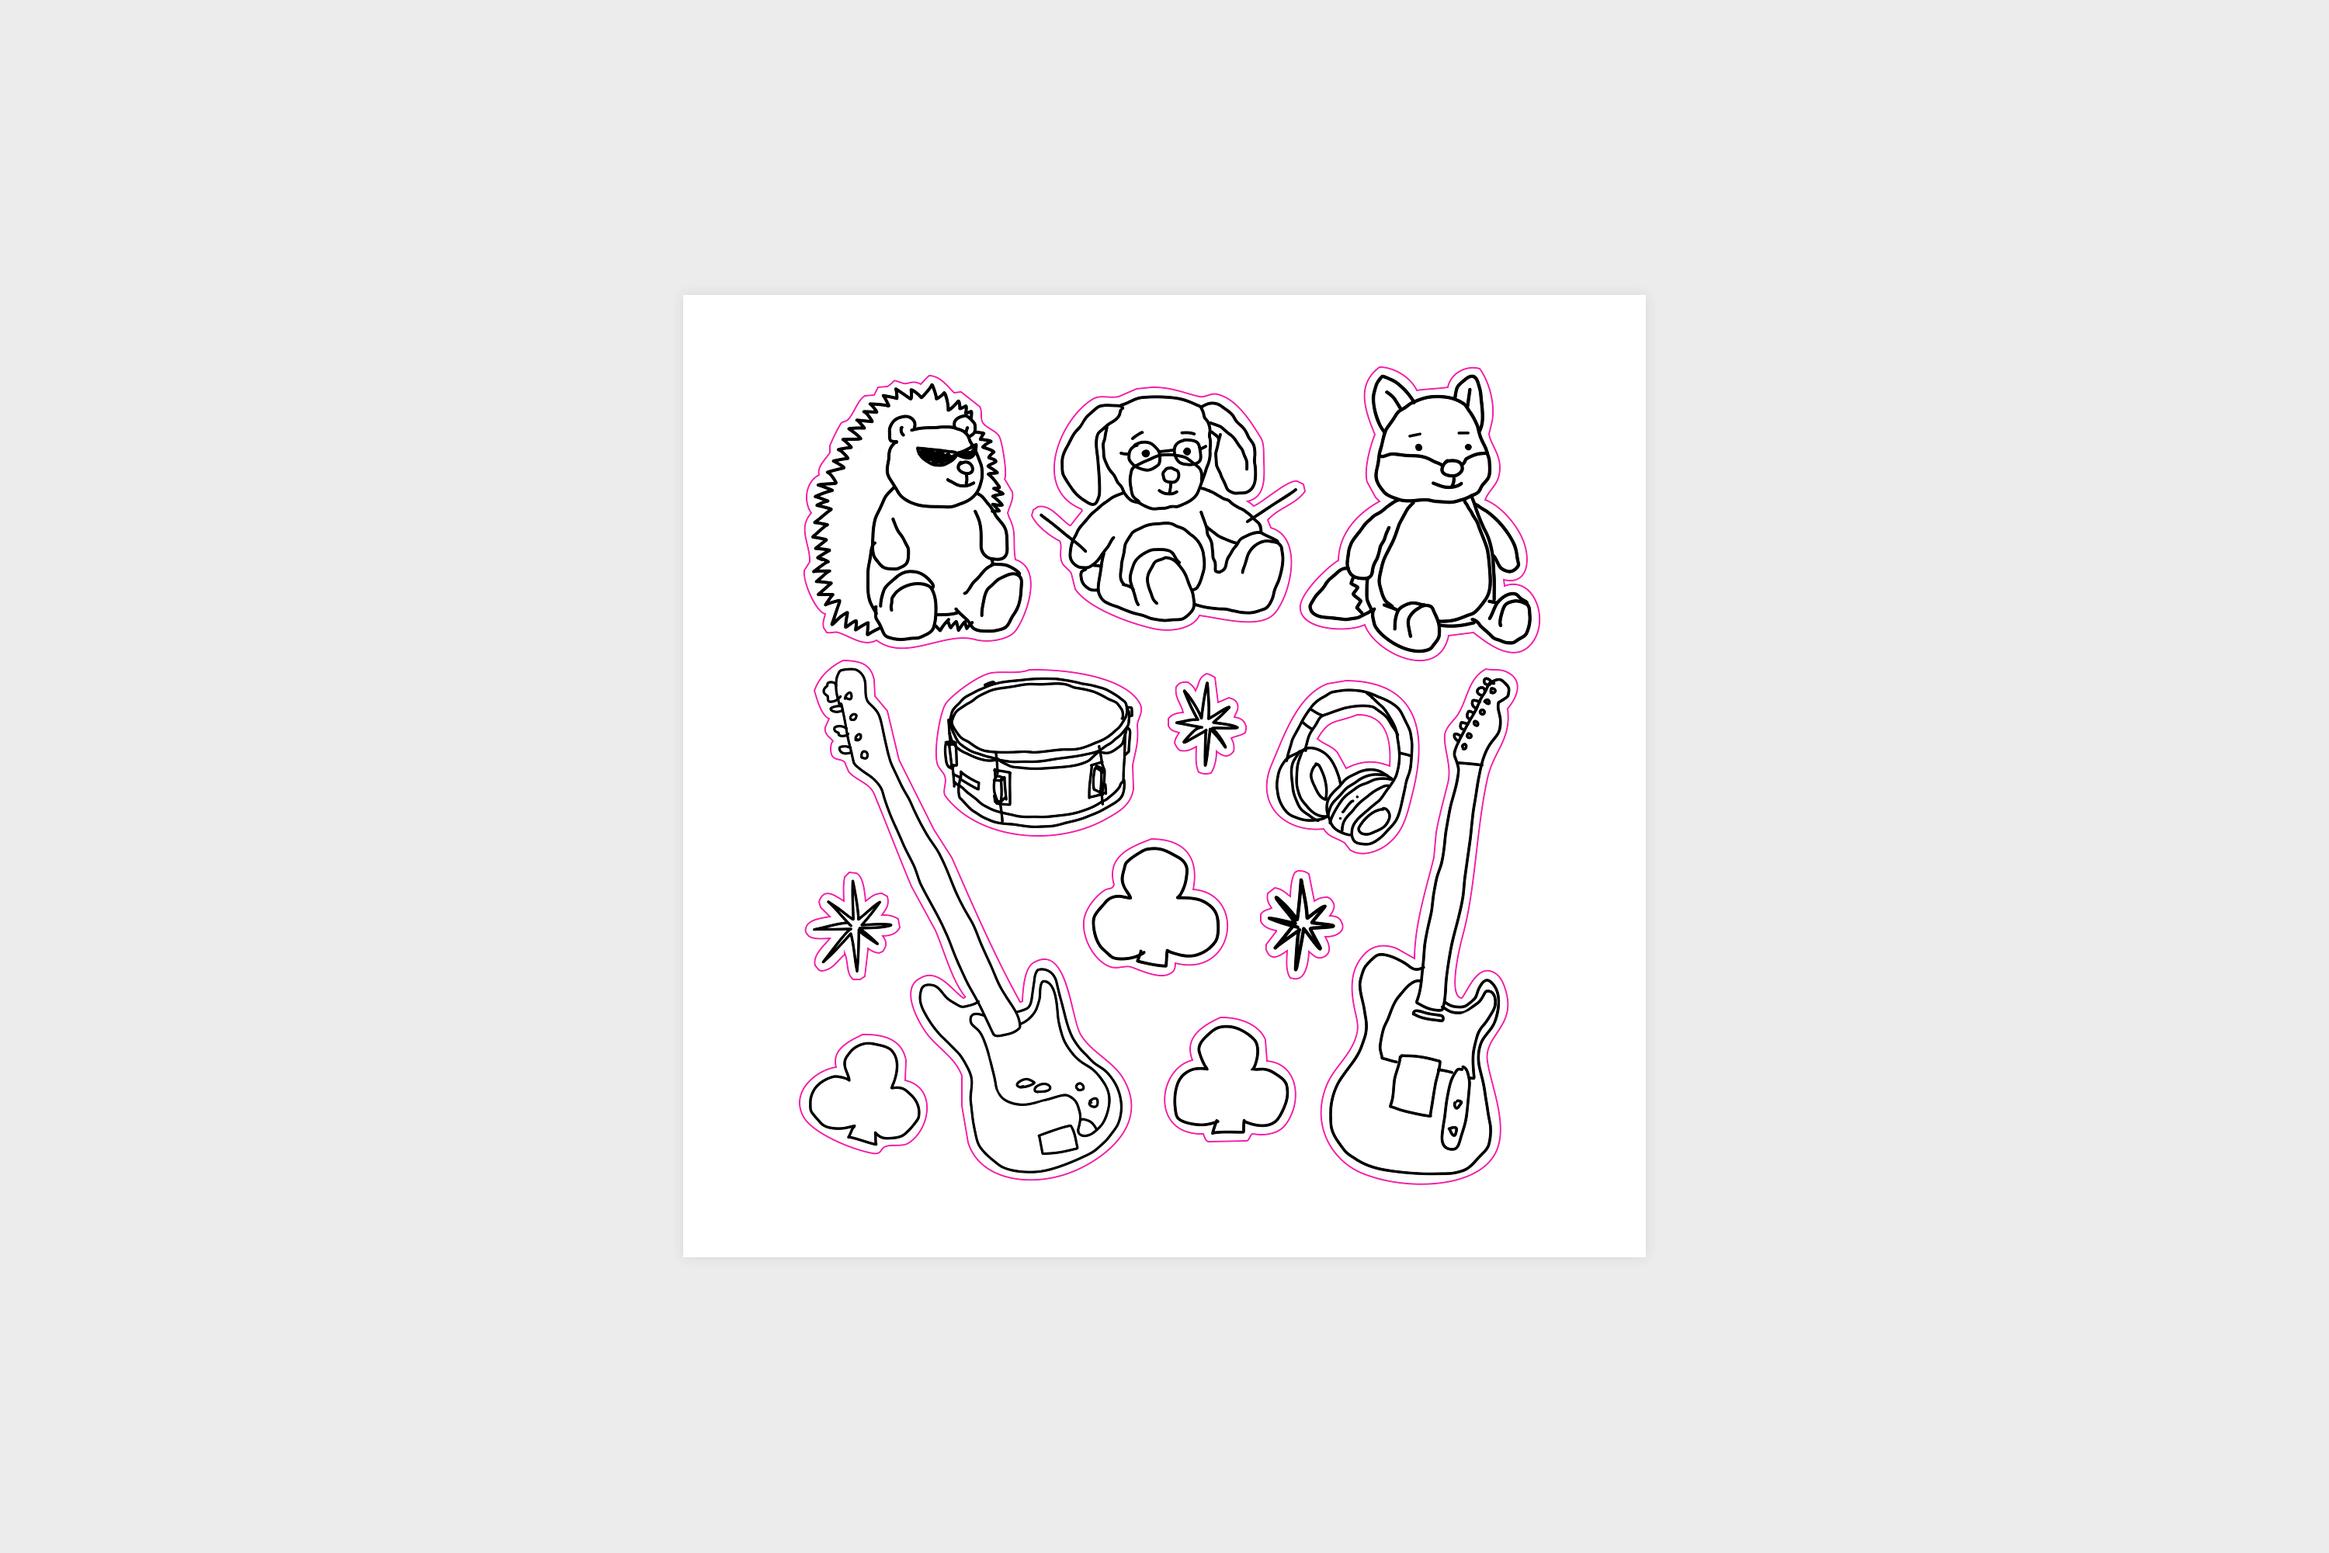
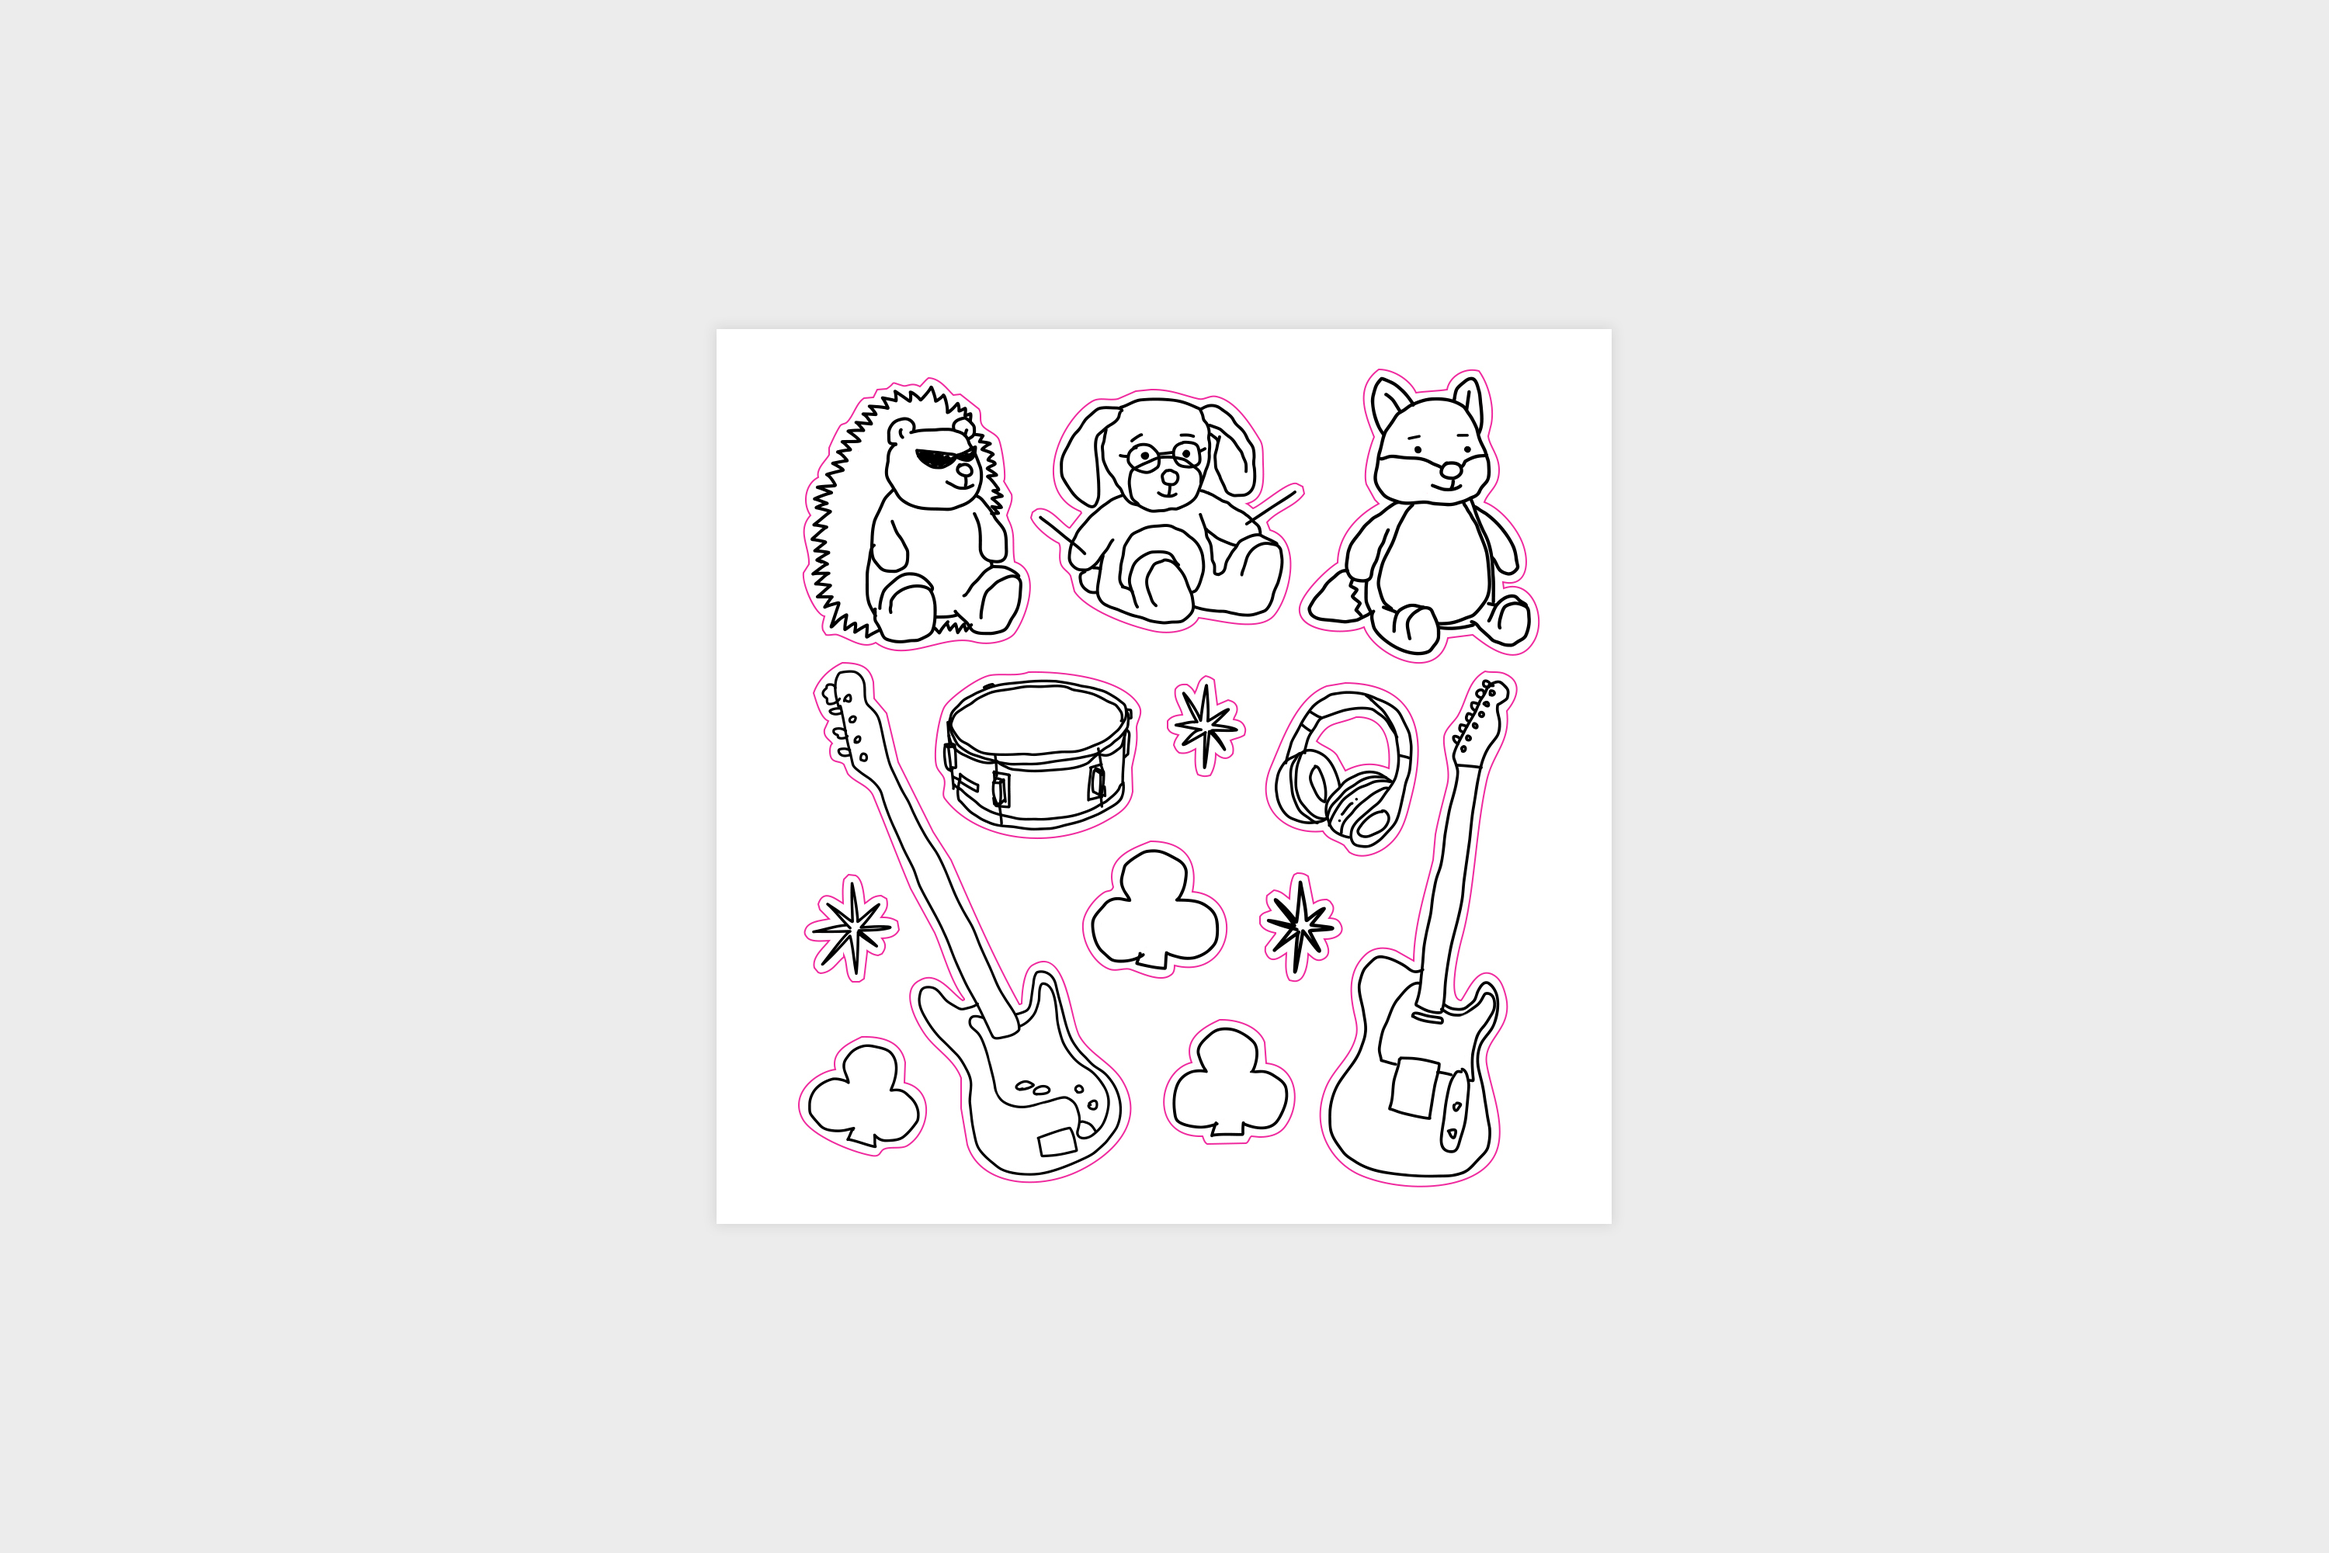
Add files via upload

Changed region(s): [[0.31, 0.2479, 0.682, 0.8056], [0.31, 0.1859, 0.682, 0.2169]]

diff --git a/guide/artwork1.html b/guide/artwork1.html
@@ -4,14 +4,15 @@
 		<meta charset="utf-8">
 		<meta http-equiv="X-UA-Compatible" content="IE=edge">
 		<meta name="viewport" content="width=1320px">
-		<title>2023 연력</title>
+		<title>인디밴드 야자수 MD</title>
 		<link rel="shortcut icon" href="images/pf_favicon.png" type="image/x-icon">
 		<link href="css/style.css" rel="stylesheet" type="text/css"> 
 		
 	</head>
   <body>
     <div>
-     <img src="images/2023_calendar.jpg" alt="2023 연력">
+     <img src="images/yajasu_lighter.JPEG" alt="라이터">
+	 <img src="images/yajasu_towel.JPEG" alt="수건">
     </div>
 	<div class="top fixed">
 		<a href="#"><img src="./images/top.png" alt="top"></a>

diff --git a/guide/artwork2.html b/guide/artwork2.html
@@ -4,7 +4,7 @@
 		<meta charset="utf-8">
 		<meta http-equiv="X-UA-Compatible" content="IE=edge">
 		<meta name="viewport" content="width=1320px">
-		<title>T-shirt & Sticker</title>
+		<title>티셔츠 & 스티커</title>
 		<link rel="shortcut icon" href="images/pf_favicon.png" type="image/x-icon">
 		<link href="css/style.css" rel="stylesheet" type="text/css"> 
 		
@@ -13,6 +13,7 @@
     <div>
      <img src="images/band_tshirt.jpg" alt="티셔츠">
 	 <img src="images/band_sticker.jpg" alt="스티커">
+	 <img src="images/real_sticker.JPEG" alt="스티커">
     </div>
 	<div class="top fixed">
 		<a href="#"><img src="./images/top.png" alt="top"></a>

diff --git a/guide/artwork3.html b/guide/artwork3.html
@@ -4,7 +4,7 @@
 		<meta charset="utf-8">
 		<meta http-equiv="X-UA-Compatible" content="IE=edge">
 		<meta name="viewport" content="width=1320px">
-		<title>Postcard</title>
+		<title>엽서</title>
 		<link rel="shortcut icon" href="images/pf_favicon.png" type="image/x-icon">
 		<link href="css/style.css" rel="stylesheet" type="text/css"> 
 		
